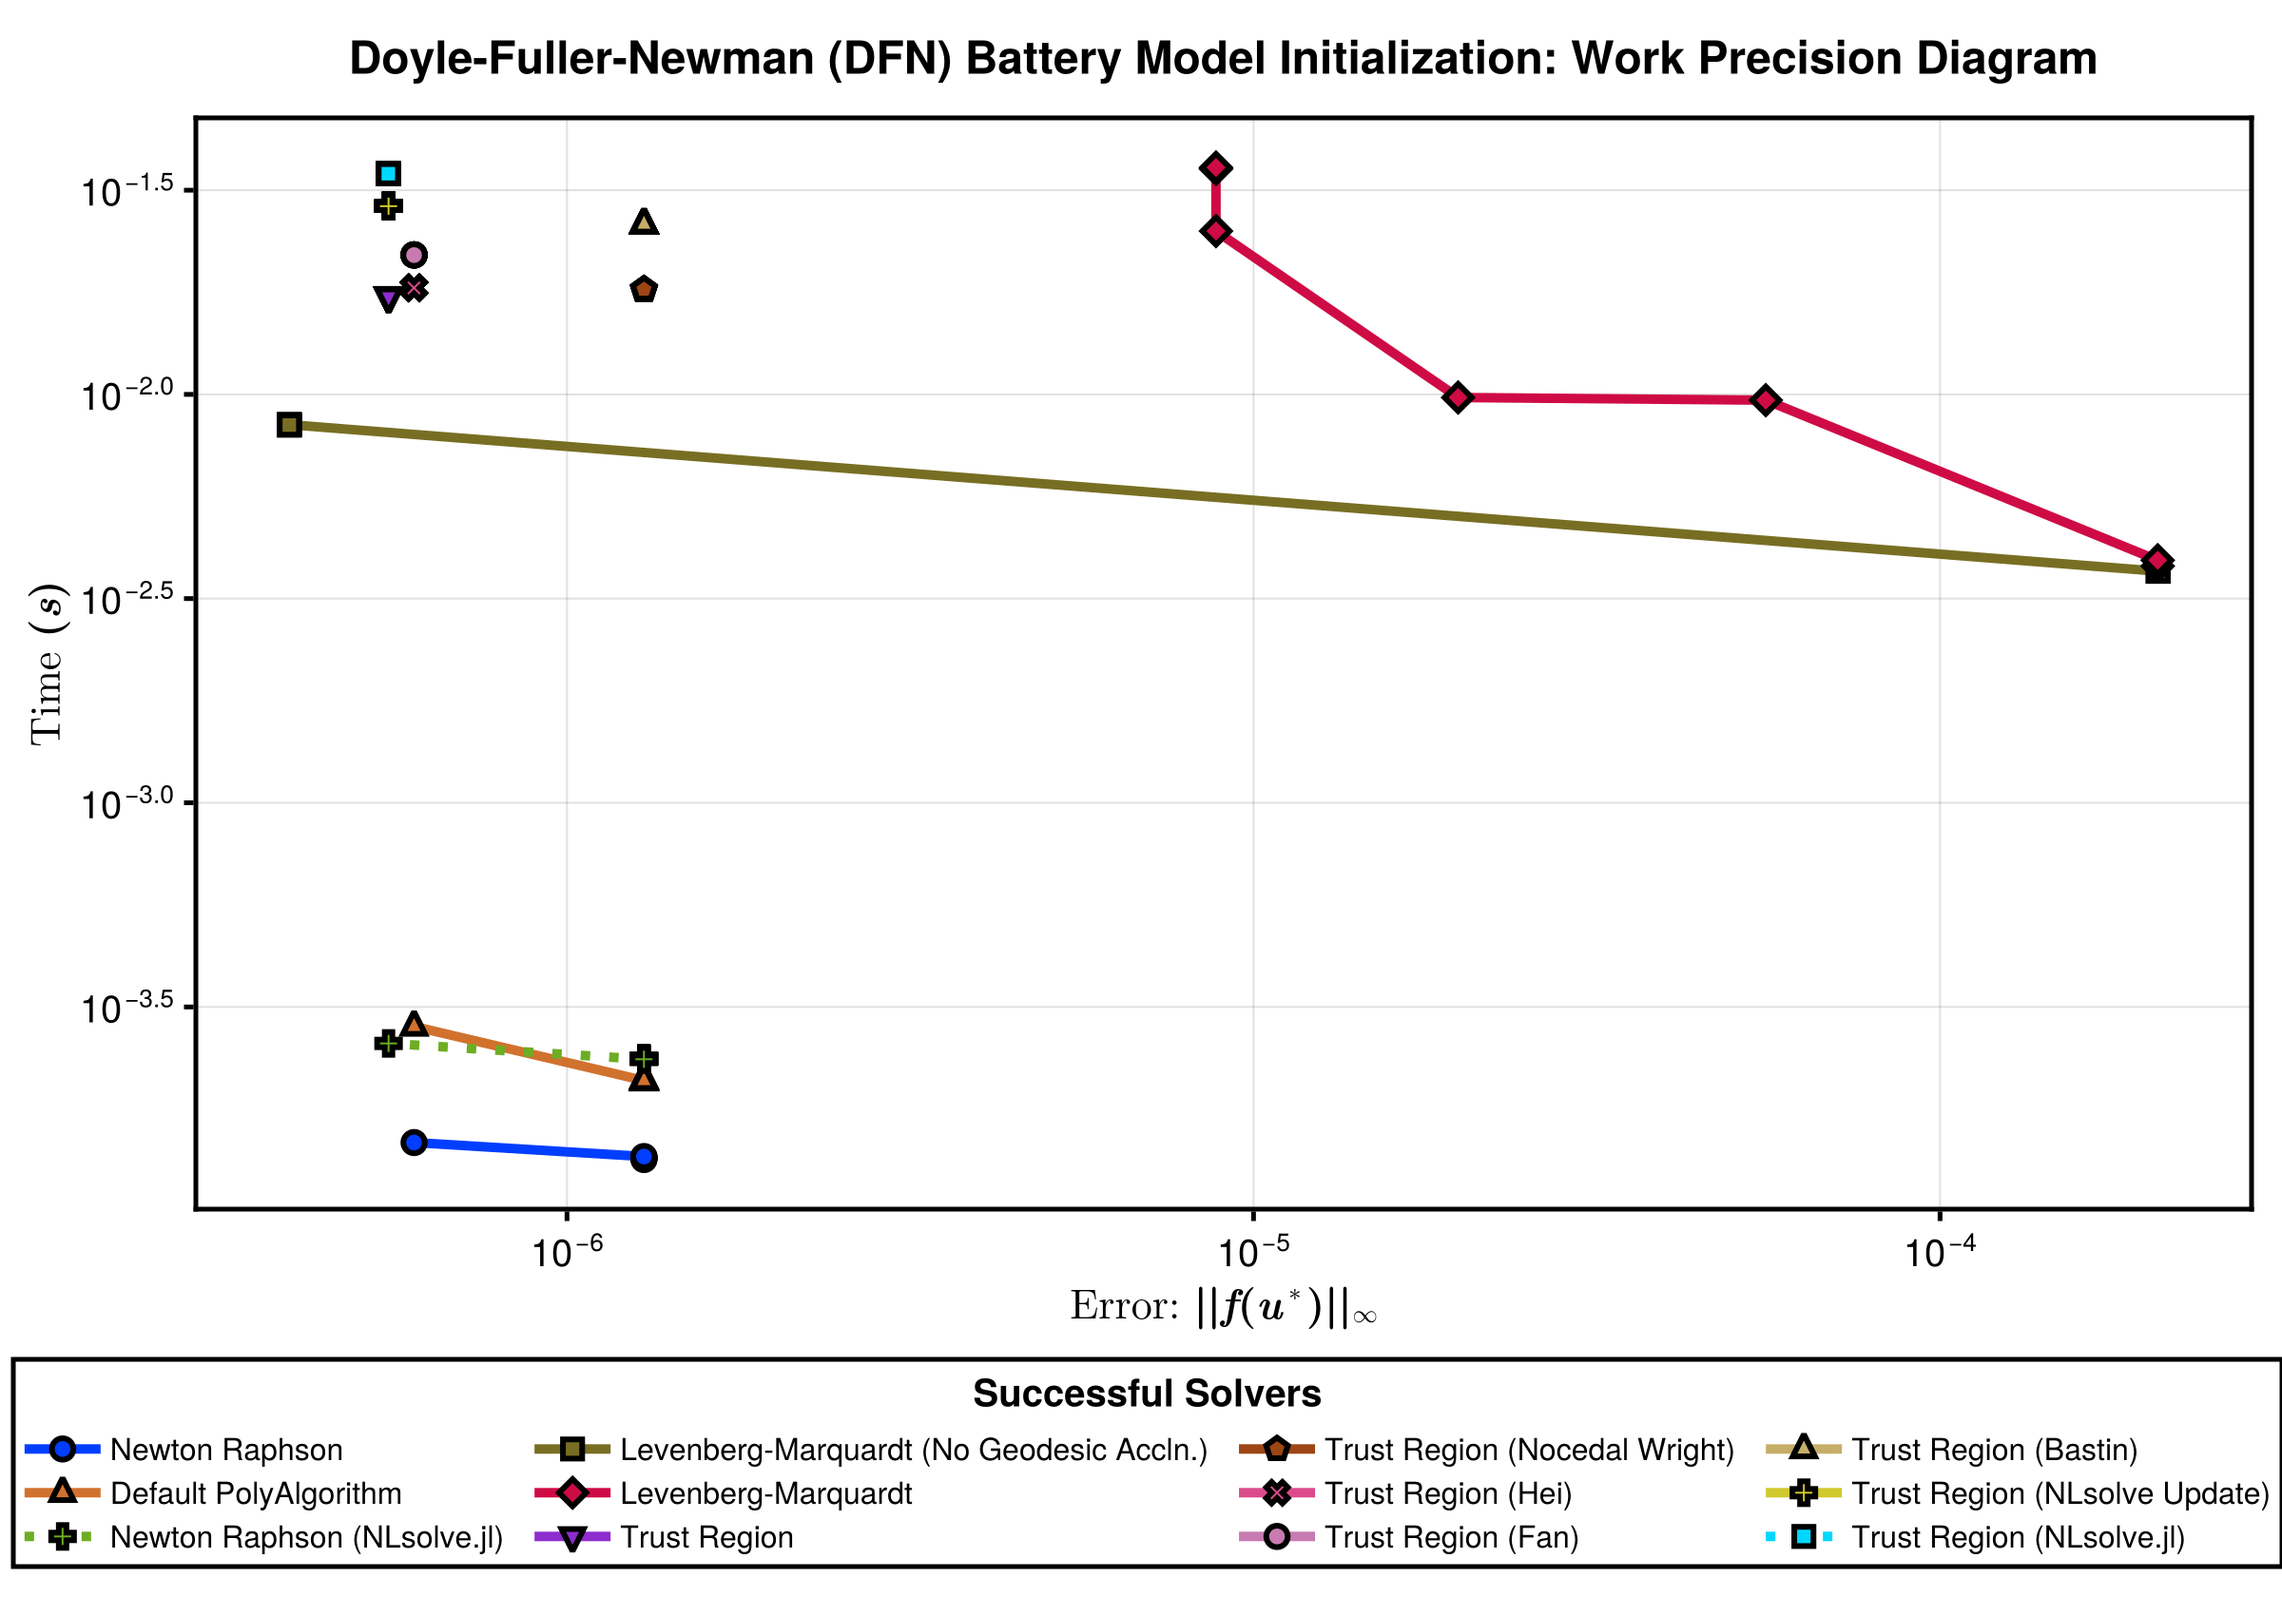
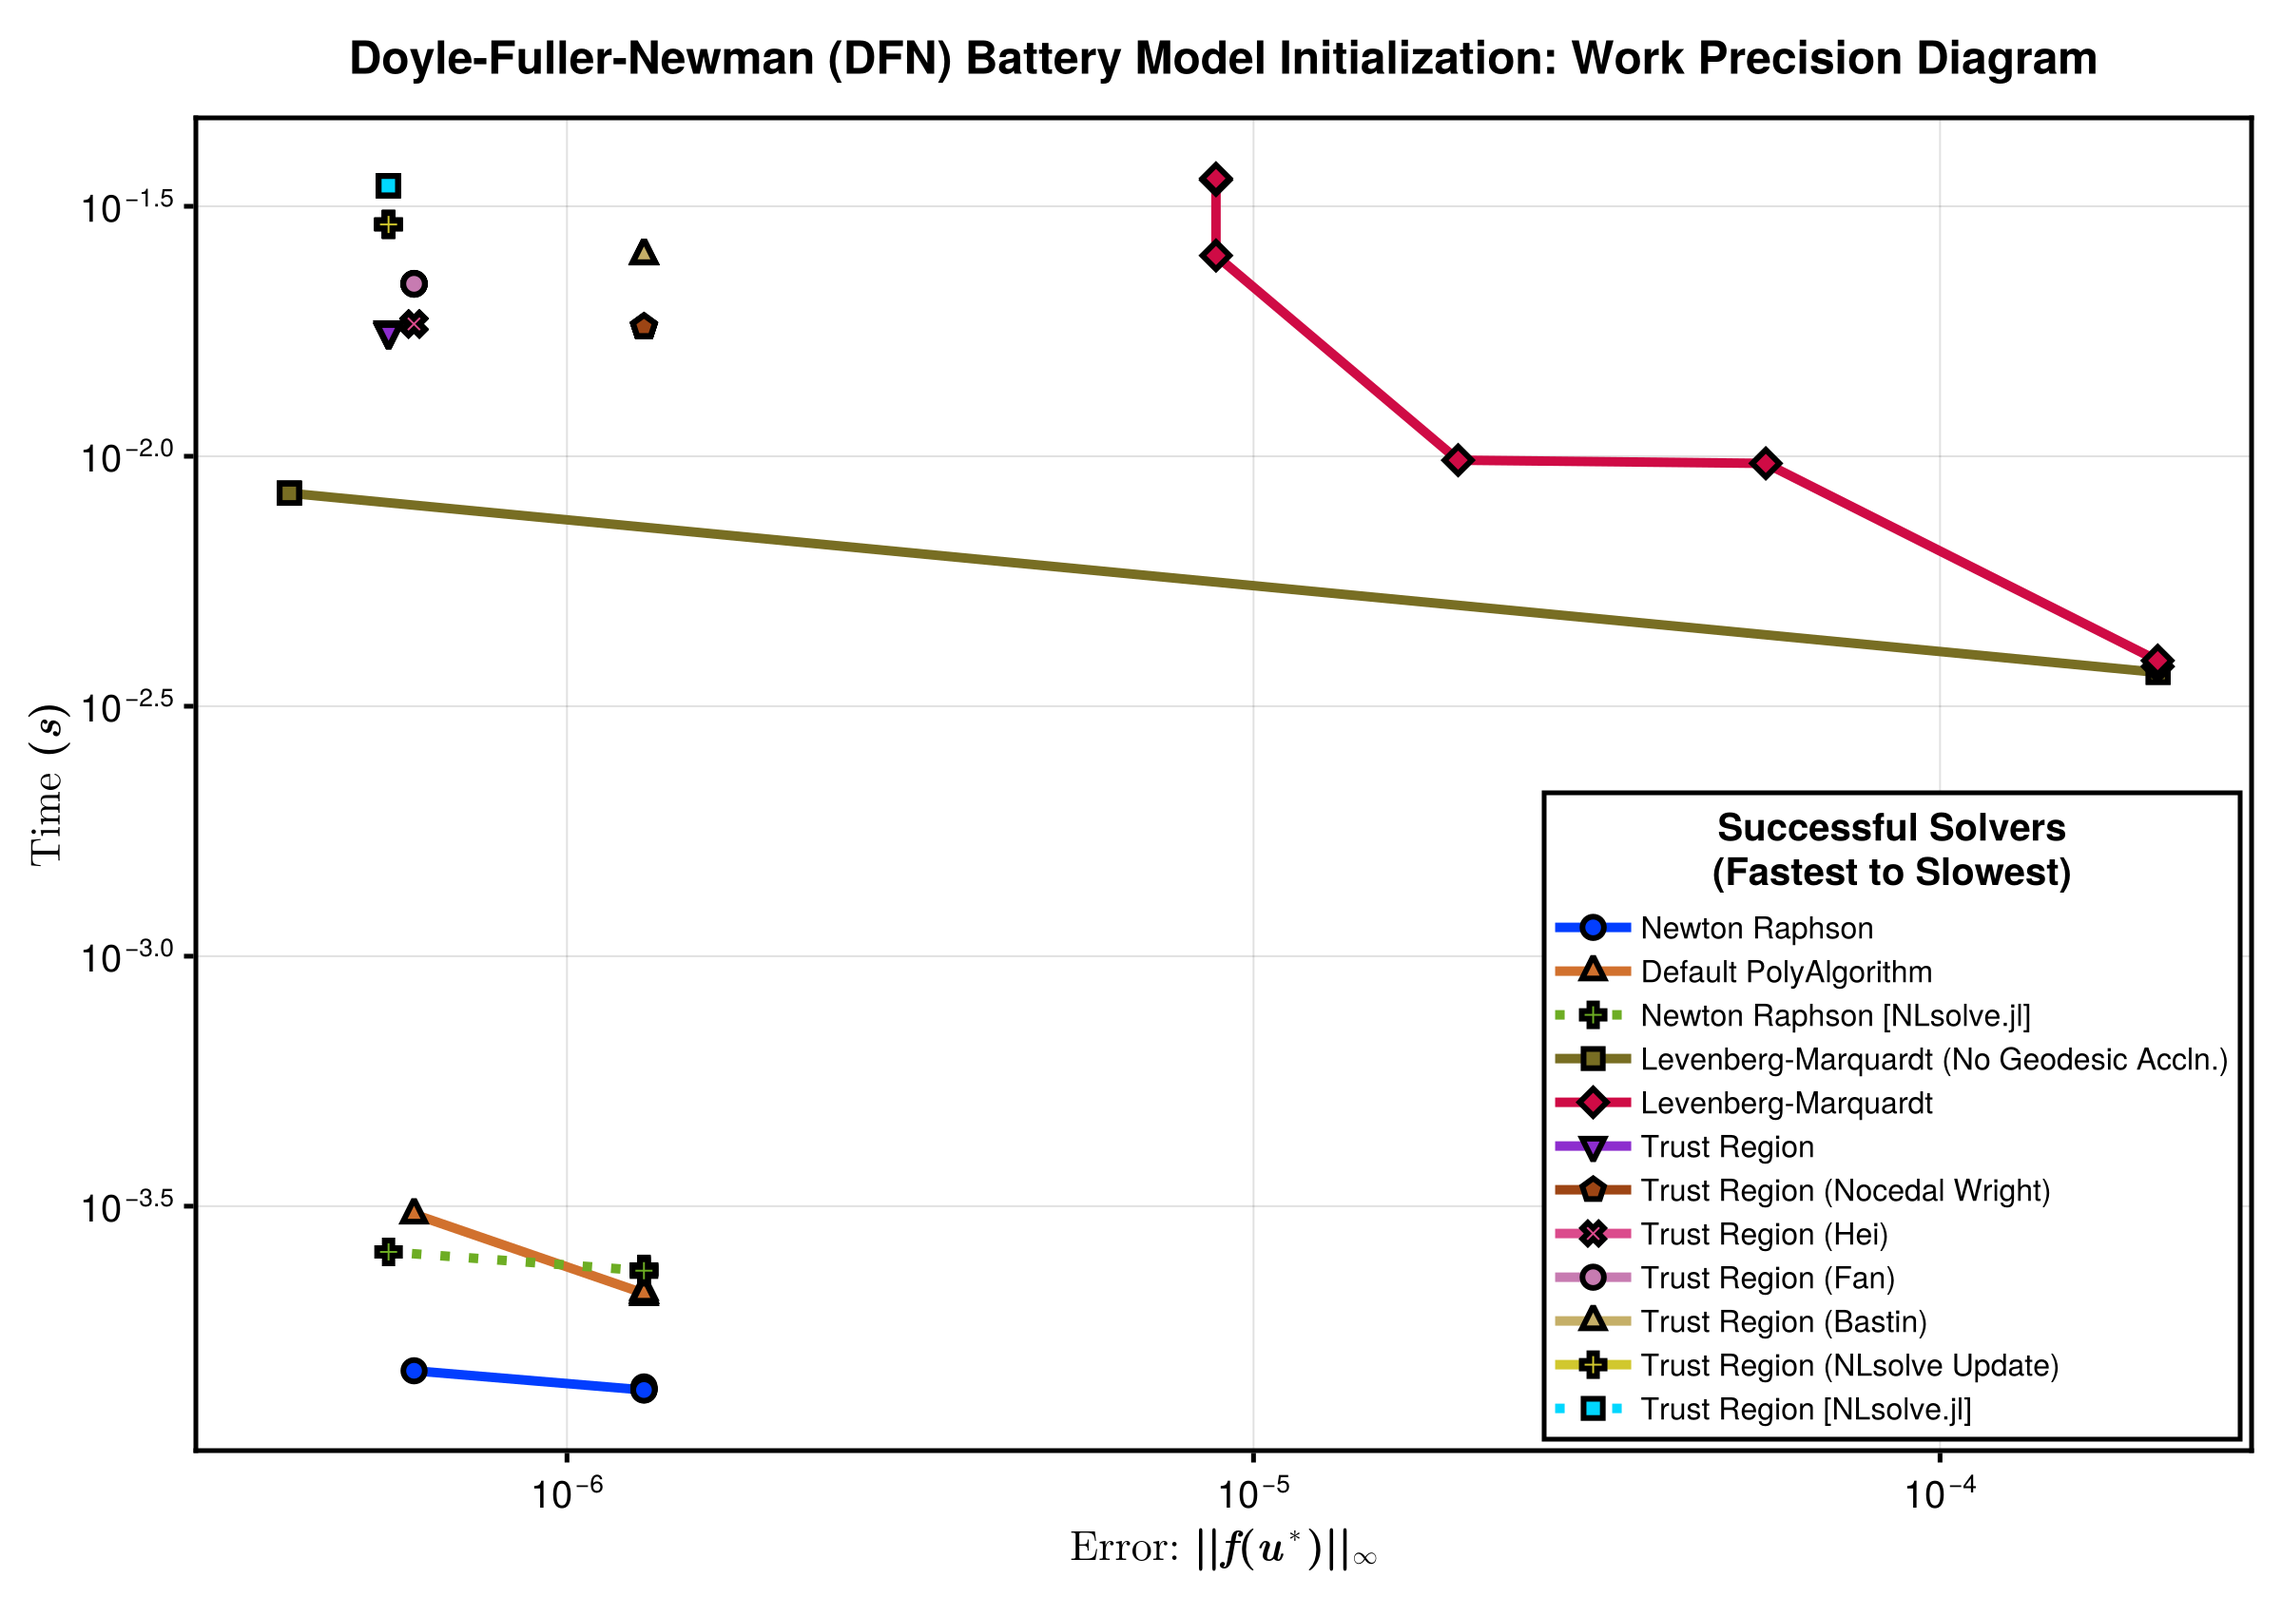
Automatic build\nPublished by build of: https://github.com/SciML/SciMLBenchmarks.jl/commit/f10f1b6731ac099103db42b9904fa48db544ef83

diff --git a/markdown/NonlinearProblem/nonlinear_battery_problem.md b/markdown/NonlinearProblem/nonlinear_battery_problem.md
@@ -54,14 +54,14 @@ solvers_all = [
     (; pkg = :nonlinearsolve,       name = "Levenberg-Marquardt with Cholesky",                      solver = Dict(:alg => LevenbergMarquardt(; autodiff = DEFAULT_FORWARD_AD, linsolve = CholeskyFactorization()))),
     (; pkg = :nonlinearsolve,       name = "Levenberg-Marquardt (No Geodesic Accln.)",               solver = Dict(:alg => LevenbergMarquardt(; linsolve = nothing, disable_geodesic = Val(true), autodiff = DEFAULT_FORWARD_AD))),
     (; pkg = :nonlinearsolve,       name = "Levenberg-Marquardt (No Geodesic Accln.) with Cholesky", solver = Dict(:alg => LevenbergMarquardt(; disable_geodesic = Val(true), autodiff = DEFAULT_FORWARD_AD, linsolve = CholeskyFactorization()))),
-    (; pkg = :wrapper,              name = "Modified Powell (MINPACK)",                              solver = Dict(:alg => CMINPACK(; method = :hybr))),
-    (; pkg = :wrapper,              name = "Levenberg-Marquardt (MINPACK)",                          solver = Dict(:alg => CMINPACK(; method = :lm))),
-    (; pkg = :wrapper,              name = "Newton Raphson (NLsolve.jl)",                            solver = Dict(:alg => NLsolveJL(; method = :newton, autodiff = :forward))),
-    (; pkg = :wrapper,              name = "Trust Region (NLsolve.jl)",                              solver = Dict(:alg => NLsolveJL(; autodiff = :forward))),
-    (; pkg = :wrapper,              name = "Newton Raphson (Sundials)",                              solver = Dict(:alg => KINSOL())),
-    (; pkg = :wrapper,              name = "Newton Krylov [GMRES] (Sundials)",                       solver = Dict(:alg => KINSOL(; linear_solver = :GMRES))),
-    (; pkg = :wrapper,              name = "Newton Raphson with LineSearch (Sundials)",              solver = Dict(:alg => KINSOL(; globalization_strategy = :LineSearch))),
-    (; pkg = :wrapper,              name = "Speed Mapping (SpeedMapping.jl)",                        solver = Dict(:alg => SpeedMappingJL()))
+    (; pkg = :wrapper,              name = "Modified Powell [MINPACK]",                              solver = Dict(:alg => CMINPACK(; method = :hybr))),
+    (; pkg = :wrapper,              name = "Levenberg-Marquardt [MINPACK]",                          solver = Dict(:alg => CMINPACK(; method = :lm))),
+    (; pkg = :wrapper,              name = "Newton Raphson [NLsolve.jl]",                            solver = Dict(:alg => NLsolveJL(; method = :newton, autodiff = :forward))),
+    (; pkg = :wrapper,              name = "Trust Region [NLsolve.jl]",                              solver = Dict(:alg => NLsolveJL(; autodiff = :forward))),
+    (; pkg = :wrapper,              name = "Mod. Newton Raphson [Sundials]",                         solver = Dict(:alg => KINSOL())),
+    (; pkg = :wrapper,              name = "Newton Krylov [Sundials]",                               solver = Dict(:alg => KINSOL(; linear_solver = :GMRES))),
+    (; pkg = :wrapper,              name = "Newton Raphson with LineSearch [Sundials]",              solver = Dict(:alg => KINSOL(; globalization_strategy = :LineSearch))),
+    (; pkg = :wrapper,              name = "Speed Mapping [SpeedMapping.jl]",                        solver = Dict(:alg => SpeedMappingJL()))
 ];
 ```
 
@@ -328,20 +328,20 @@ th an residual norm = 0.00039458054329866794.
 the problem (norm = 5.246607252366464e-7).
 [Warn] Solver Levenberg-Marquardt (No Geodesic Accln.) with Cholesky return
 ed retcode Unstable with an residual norm = 0.0003015473498789062.
-[Warn] Solver Modified Powell (MINPACK) returned retcode Failure with an re
+[Warn] Solver Modified Powell [MINPACK] returned retcode Failure with an re
 sidual norm = 292.3000724036127.
-[Warn] Solver Levenberg-Marquardt (MINPACK) returned retcode Failure with a
+[Warn] Solver Levenberg-Marquardt [MINPACK] returned retcode Failure with a
 n residual norm = 292.3000724036127.
-[Info] Solver Newton Raphson (NLsolve.jl) successfully solved the problem (
+[Info] Solver Newton Raphson [NLsolve.jl] successfully solved the problem (
 norm = 1.5941104186169045e-6).
-[Info] Solver Trust Region (NLsolve.jl) successfully solved the problem (no
+[Info] Solver Trust Region [NLsolve.jl] successfully solved the problem (no
 rm = 6.940612093440701e-7).
-[Warn] Solver Newton Raphson (Sundials) had a residual of NaN.
-[Warn] Solver Newton Krylov [GMRES] (Sundials) returned retcode Failure wit
-h an residual norm = 292.3000724036127.
-[Warn] Solver Newton Raphson with LineSearch (Sundials) returned retcode Fa
+[Warn] Solver Mod. Newton Raphson [Sundials] had a residual of NaN.
+[Warn] Solver Newton Krylov [Sundials] returned retcode Failure with an res
+idual norm = 292.3000724036127.
+[Warn] Solver Newton Raphson with LineSearch [Sundials] returned retcode Fa
 ilure with an residual norm = 287.9954636633953.
-[Warn] Solver Speed Mapping (SpeedMapping.jl) returned retcode Failure with
+[Warn] Solver Speed Mapping [SpeedMapping.jl] returned retcode Failure with
  an residual norm = 1.8355122321179187e92.
 ```
 
@@ -389,16 +389,15 @@ fig = begin
             push!(scs, sc)
         end
 
-        Legend(fig[2, :], [[l, sc] for (l, sc) in zip(ls, scs)],
-            [solver.name for solver in successful_solvers[idxs]], "Successful Solvers";
-            framevisible=true, framewidth = STROKEWIDTH, orientation = :horizontal,
-            titlesize = 20, nbanks = 3, labelsize = 16, margin = (0.0, 80.0, 0.0, 0.0),
-            tellheight = true, tellwidth = false, patchsize = (40.0f0, 20.0f0))
+        axislegend(ax, [[l, sc] for (l, sc) in zip(ls, scs)],
+            [solver.name for solver in successful_solvers[idxs]], "Successful Solvers\n(Fastest to Slowest)";
+            framevisible=true, framewidth = STROKEWIDTH, orientation = :vertical,
+            titlesize = 20, nbanks = 1, labelsize = 16,#  margin = (0.0, 80.0, 0.0, 0.0),
+            tellheight = false, tellwidth = true, patchsize = (40.0f0, 20.0f0),
+            position = :rb)
 
         fig[0, :] = Label(fig, "Doyle-Fuller-Newman (DFN) Battery Model Initialization: Work Precision Diagram",
             fontsize = 24, tellwidth = false, font = :bold)
-
-        resize_to_layout!(fig)
 
         fig
     end
@@ -460,14 +459,14 @@ Docs.Text(String(take!(io)))
       <th style = "text-align: center;">Levenberg-Marquardt with Cholesky</th>
       <th style = "text-align: center;">Levenberg-Marquardt (No Geodesic Accln.)</th>
       <th style = "text-align: center;">Levenberg-Marquardt (No Geodesic Accln.) with Cholesky</th>
-      <th style = "text-align: center;">Modified Powell (MINPACK)</th>
-      <th style = "text-align: center;">Levenberg-Marquardt (MINPACK)</th>
-      <th style = "text-align: center;">Newton Raphson (NLsolve.jl)</th>
-      <th style = "text-align: center;">Trust Region (NLsolve.jl)</th>
-      <th style = "text-align: center;">Newton Raphson (Sundials)</th>
-      <th style = "text-align: center;">Newton Krylov [GMRES] (Sundials)</th>
-      <th style = "text-align: center;">Newton Raphson with LineSearch (Sundials)</th>
-      <th style = "text-align: center;">Speed Mapping (SpeedMapping.jl)</th>
+      <th style = "text-align: center;">Modified Powell [MINPACK]</th>
+      <th style = "text-align: center;">Levenberg-Marquardt [MINPACK]</th>
+      <th style = "text-align: center;">Newton Raphson [NLsolve.jl]</th>
+      <th style = "text-align: center;">Trust Region [NLsolve.jl]</th>
+      <th style = "text-align: center;">Mod. Newton Raphson [Sundials]</th>
+      <th style = "text-align: center;">Newton Krylov [Sundials]</th>
+      <th style = "text-align: center;">Newton Raphson with LineSearch [Sundials]</th>
+      <th style = "text-align: center;">Speed Mapping [SpeedMapping.jl]</th>
     </tr>
   </thead>
   <tbody>
@@ -530,7 +529,7 @@ Platform Info:
   WORD_SIZE: 64
   LIBM: libopenlibm
   LLVM: libLLVM-15.0.7 (ORCJIT, znver2)
-Threads: 1 default, 0 interactive, 1 GC (on 128 virtual cores)
+Threads: 128 default, 0 interactive, 64 GC (on 128 virtual cores)
 Environment:
   JULIA_CPU_THREADS = 128
   JULIA_DEPOT_PATH = /cache/julia-buildkite-plugin/depots/5b300254-1738-4989-ae0a-f4d2d937f953
@@ -632,7 +631,7 @@ Status `/cache/build/exclusive-amdci3-0/julialang/scimlbenchmarks-dot-jl/benchma
   [ffbed154] DocStringExtensions v0.9.3
   [e30172f5] Documenter v1.3.0
   [35a29f4d] DocumenterTools v0.1.19
-  [5b8099bc] DomainSets v0.7.9
+⌃ [5b8099bc] DomainSets v0.7.9
   [fa6b7ba4] DualNumbers v0.6.8
   [7c1d4256] DynamicPolynomials v0.5.5
   [4e289a0a] EnumX v1.0.4
@@ -663,7 +662,7 @@ Status `/cache/build/exclusive-amdci3-0/julialang/scimlbenchmarks-dot-jl/benchma
 ⌃ [d7ba0133] Git v1.3.0
   [a2bd30eb] Graphics v1.1.2
   [86223c79] Graphs v1.9.0
-  [3955a311] GridLayoutBase v0.10.0
+⌃ [3955a311] GridLayoutBase v0.10.0
   [42e2da0e] Grisu v1.0.2
   [708ec375] Gumbo v0.8.2
   [cd3eb016] HTTP v1.10.3
